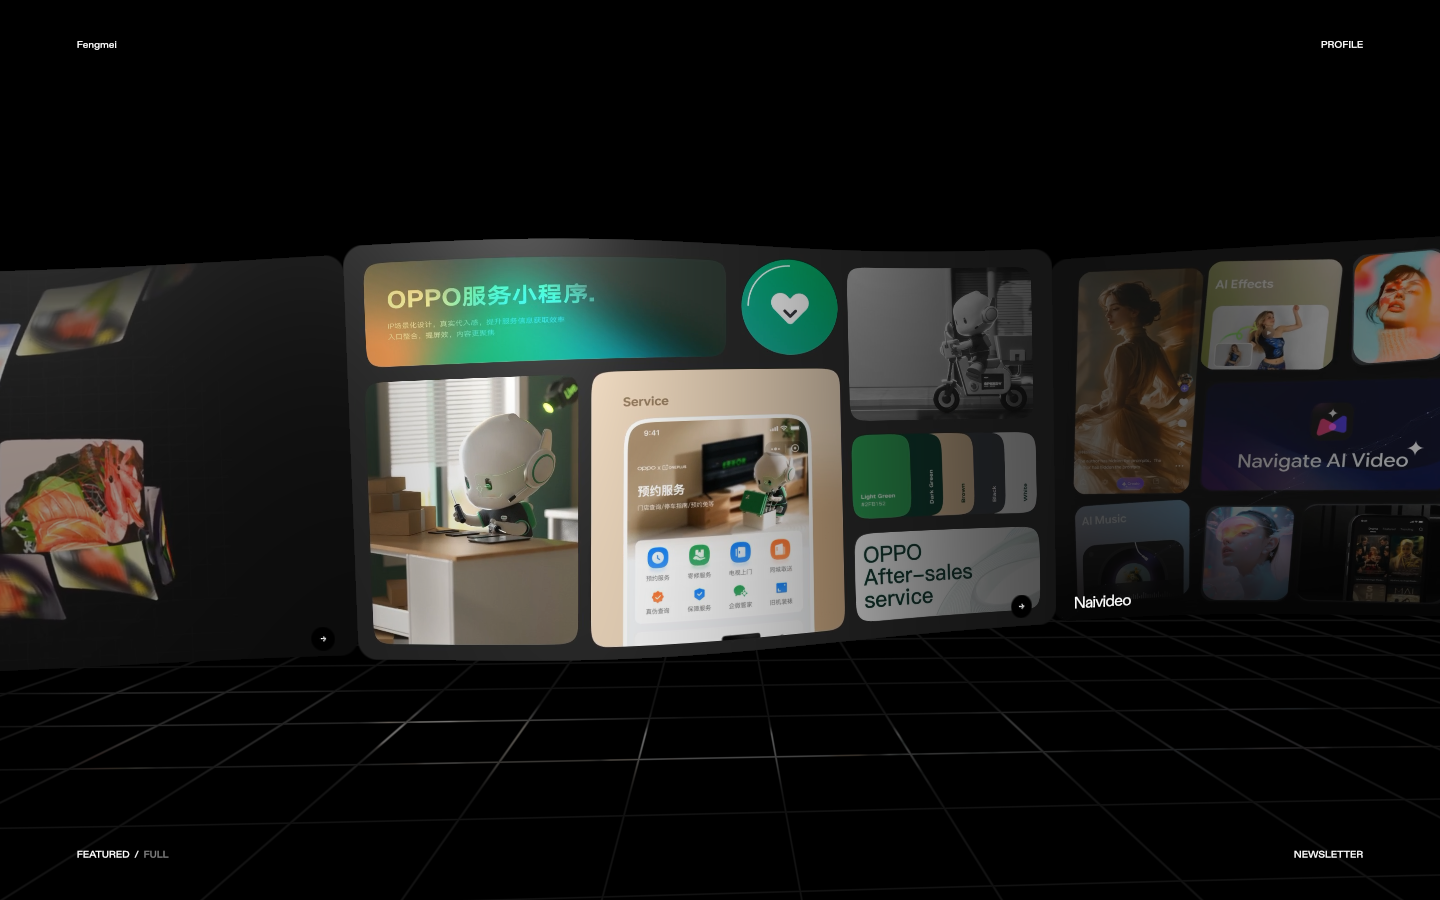
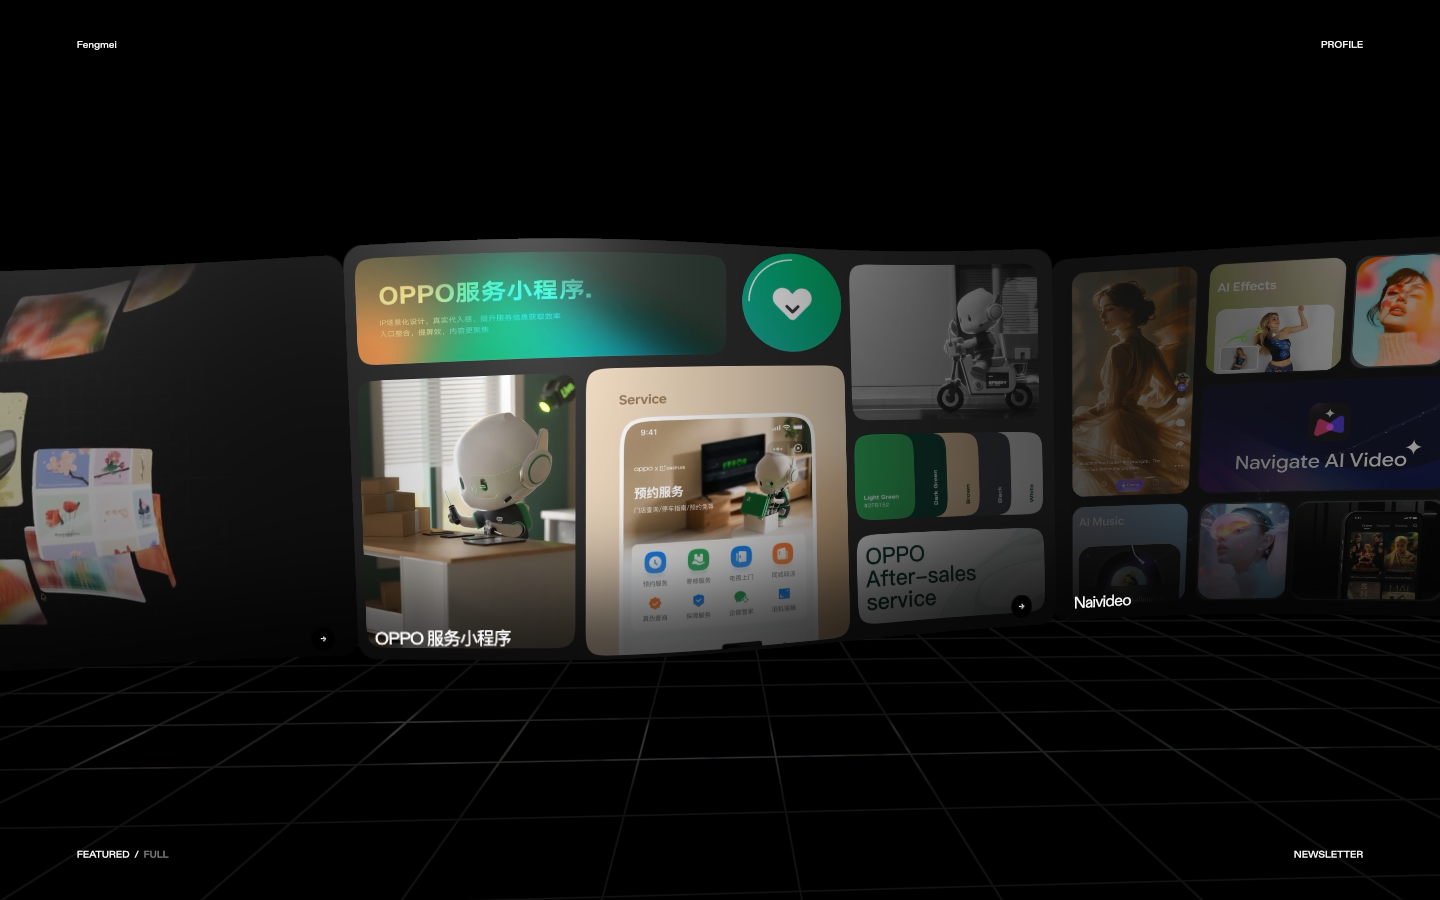
Add compound gallery focus lighting and tactile card motion

diff --git a/site/local-motion.js b/site/local-motion.js
@@ -7,23 +7,55 @@
     // every label inside the scene's pointer field and preview mask.
     useCanvasText: function (el) {
       return el.textContent.trim() === '华润ERP' ||
-        (el.matches('.content-center a') && /[\u3400-\u9fff]/.test(el.textContent));
+        ((el.matches('.content-center a') || el.hasAttribute('data-title')) && /[\u3400-\u9fff]/.test(el.textContent));
     },
     install: function (folio) {
       if (folio.galleryMotion) return;
       var media = matchMedia('(prefers-reduced-motion: reduce)');
       var pointer = { x: .5, y: .5, sx: .5, sy: .5, active: false };
+      var hovered = null, pressed = null;
+      var states = new WeakMap();
       var intro = -10000;
       var enabled = function () { return !media.matches && location.pathname === '/' && !folio.ctx.$resize?.small; };
       var clamp = function (n, a, b) { return Math.max(a, Math.min(b, n)); };
+      function stateFor(el) {
+        var state = states.get(el);
+        if (!state) { state = { hover: 0, press: 0, x: .5, y: .5 }; states.set(el, state); }
+        return state;
+      }
       folio.galleryMotion = { pointer: pointer, get enabled() { return enabled(); } };
       window.addEventListener('pointermove', function (e) {
         pointer.x = e.clientX / innerWidth;
         pointer.y = e.clientY / innerHeight;
         pointer.active = e.pointerType !== 'touch';
+        hovered = pointer.active ? e.target.closest?.('[data-gl="card"]') : null;
       }, { passive: true });
-      document.documentElement.addEventListener('pointerleave', function () { pointer.active = false; });
-      window.addEventListener('blur', function () { pointer.active = false; });
+      function release() { pressed = null; }
+      function leave() { pointer.active = false; hovered = null; release(); }
+      window.addEventListener('pointerdown', function (e) { if (e.button === 0) pressed = e.target.closest?.('[data-gl="card"]'); }, { passive: true });
+      window.addEventListener('pointerup', release, { passive: true });
+      window.addEventListener('pointercancel', leave, { passive: true });
+      document.documentElement.addEventListener('pointerleave', leave);
+      window.addEventListener('blur', leave);
+
+      // Light is evaluated on the existing card surface: no overlay can
+      // intercept clicks or cover the four corner navigation controls.
+      var plane = folio.plane;
+      folio.plane = function () {
+        var mesh = plane.apply(this, arguments), material = mesh.material;
+        var end = 'gl_FragColor = vec4(tex.rgb, alpha);';
+        if (material.fragmentShader.includes(end)) {
+          material.uniforms.u_galleryFocus = { value: 0 };
+          material.uniforms.u_galleryPoint = { value: material.uniforms.u_res.value.clone().set(.5, .5) };
+          material.fragmentShader = 'uniform float u_galleryFocus;\nuniform vec2 u_galleryPoint;\n' + material.fragmentShader.replace(end,
+            'vec2 galleryDelta = (vUv - u_galleryPoint) * vec2(u_res.x / max(u_res.y, 0.001), 1.0);\n' +
+            'float galleryLight = exp(-dot(galleryDelta, galleryDelta) * 5.0);\n' +
+            'float gallerySweep = pow(max(0.0, 1.0 - abs(vUv.x + vUv.y * 0.25 - u_galleryPoint.x - 0.12)), 16.0);\n' +
+            'tex.rgb += (vec3(0.07, 0.085, 0.11) * galleryLight + vec3(0.035) * gallerySweep) * u_galleryFocus * (1.0 - u_white);\n' + end);
+          material.needsUpdate = true;
+        }
+        return mesh;
+      };
 
       var showHome = folio.showHome;
       folio.showHome = function () {
@@ -35,6 +67,25 @@
         var k = 1 - Math.exp(-Math.min(dt || .016, .05) * 7);
         pointer.sx += ((pointer.active ? pointer.x : .5) - pointer.sx) * k;
         pointer.sy += ((pointer.active ? pointer.y : .5) - pointer.sy) * k;
+        var active = enabled() && this.hole.p < .02;
+        for (var card of this.reg.all()) {
+          var el = card.el, uniforms = card.mesh.material.uniforms;
+          if (!el?.isConnected || el.dataset.gl !== 'card' || !active) {
+            if (uniforms.u_galleryFocus) uniforms.u_galleryFocus.value = 0;
+            continue;
+          }
+          var state = stateFor(el), box = el._vrect || el.getBoundingClientRect();
+          state.hover += ((el === hovered ? 1 : 0) - state.hover) * k;
+          state.press += ((el === pressed ? 1 : 0) - state.press) * Math.min(1, k * 2);
+          var x = clamp((pointer.x * innerWidth - box.left) / Math.max(box.width, 1), 0, 1);
+          var y = clamp((pointer.y * innerHeight - box.top) / Math.max(box.height, 1), 0, 1);
+          state.x += (x - state.x) * k;
+          state.y += (y - state.y) * k;
+          if (uniforms.u_galleryFocus) {
+            uniforms.u_galleryFocus.value = state.hover;
+            uniforms.u_galleryPoint.value.set(state.x, 1 - state.y);
+          }
+        }
         return tick.apply(this, arguments);
       };
       var sheet = folio.sheet;
@@ -59,19 +110,27 @@
         var center = clamp((cx - .5) * 2, -1.5, 1.5);
         var focus = Math.exp(-Math.pow(center * 1.55, 2));
         var delay = Math.min(Math.max(index, 0), 5) * 70;
-        var p = clamp((performance.now() - intro - delay) / 1450, 0, 1);
-        var arrival = Math.pow(1 - p, 3);
+        var p = clamp((performance.now() - intro - delay) / 1650, 0, 1);
+        var arrival = Math.pow(1 - p, 4);
+        var state = stateFor(el);
+        var hover = this.hole.p < .02 ? state.hover : 0;
+        var press = this.hole.p < .02 ? state.press : 0;
         var h = pose.scale.y;
         var px = (pointer.sx - .5) * 2;
         var py = (pointer.sy - .5) * 2;
-        var dy = h * (-.17 * arrival + (px * center * .012 - py * .014) * focus);
-        var dz = h * (.045 * focus - .12 * arrival - Math.abs(this.vel || 0) * .025);
+        var dy = h * (-.20 * arrival + (px * center * .012 - py * .014) * focus + .018 * hover);
+        var dz = h * (.045 * focus - .15 * arrival - Math.abs(this.vel || 0) * .045 + .06 * hover - .035 * press);
         el._galleryOffset = { y: dy, z: dz };
         pose.pos.y += dy;
         pose.pos.z += dz;
+        var scale = 1 + .012 * hover - .01 * press;
+        pose.scale.x *= scale;
+        pose.scale.y *= scale;
         // The same pose is sampled by native click flights, preventing a jump.
         pose.quat = this.core.camera.quaternion.clone();
-        pose.quat.setFromAxisAngle({ x: 0, y: 1, z: 0 }, -.035 * center + .018 * px * focus + .10 * arrival * (index % 2 ? -1 : 1));
+        pose.quat.setFromAxisAngle({ x: 0, y: 1, z: 0 }, -.035 * center + .018 * px * focus + .12 * arrival * (index % 2 ? -1 : 1) + (state.x - .5) * .09 * hover);
+        var tiltX = this.core.camera.quaternion.clone().setFromAxisAngle({ x: 1, y: 0, z: 0 }, (state.y - .5) * .07 * hover);
+        pose.quat.multiply(tiltX);
         return pose;
       };
       var syncTitles = folio.syncTitles;

diff --git a/tools/verify_gallery_motion.js b/tools/verify_gallery_motion.js
@@ -18,7 +18,9 @@ const options = { executablePath: '/Applications/Google Chrome.app/Contents/MacO
     const read = () => page.evaluate(() => {
       const folio = document.querySelector('#__nuxt').__vue_app__.config.globalProperties.$nuxt.$folio;
       return { enabled: folio.galleryMotion.enabled, pointer: { ...folio.galleryMotion.pointer },
-        cards: folio.cards.filter(c => c.el.isConnected).map(c => ({ slug: c.slug, pos: c.mesh.position.toArray(), quat: c.mesh.quaternion.toArray() })) };
+        cards: folio.cards.filter(c => c.el.isConnected).map(c => ({ slug: c.slug, pos: c.mesh.position.toArray(), quat: c.mesh.quaternion.toArray(),
+          focus: c.mesh.material.uniforms.u_galleryFocus?.value, light: c.mesh.material.uniforms.u_galleryPoint?.value.toArray() })),
+        labels: folio.texts.filter(t => t.el.isConnected).map(t => t.el.textContent) };
     });
     await page.mouse.move(720, 450);
     await page.waitForTimeout(800);
@@ -29,17 +31,28 @@ const options = { executablePath: '/Applications/Google Chrome.app/Contents/MacO
     check('desktop gallery active with ten projects', before.enabled && before.cards.length === 10);
     check('pointer changes rendered card pose', after.cards.some((c, i) => Math.abs(c.pos[1] - before.cards[i].pos[1]) > .001));
     check('all card poses stay finite', after.cards.every(c => c.pos.concat(c.quat).every(Number.isFinite)));
+    check('all card surfaces support directional light', after.cards.every(c => Number.isFinite(c.focus) && c.light.length === 2));
+    check('Chinese project captions are rendered', after.labels.includes('OPPO自助服务') && after.labels.includes('华润ERP'));
     await page.screenshot({ path: 'screenshots/gallery_motion_home.png' });
     await page.mouse.wheel(0, 1800);
     await page.waitForTimeout(900);
     await page.screenshot({ path: 'screenshots/gallery_motion_scroll.png' });
-    await page.evaluate(() => {
+    const slug = await page.evaluate(() => {
       const card = [...document.querySelectorAll('[data-gl="card"]')].find(e => {
         const r = e._vrect || e.getBoundingClientRect(); return r.left > 0 && r.left < innerWidth * .7;
       });
       if (!card) throw new Error('No visible card');
-      (card.querySelector('a') || card).click();
+      return card.dataset.id;
     });
+    const target = page.locator('[data-gl="card"][data-id="' + slug + '"]');
+    await target.hover(); await page.waitForTimeout(1100);
+    const focused = (await read()).cards.find(c => c.slug === slug);
+    check('hover focuses and lights the active card', focused.focus > .8);
+    await page.screenshot({ path: 'screenshots/gallery_motion_focus.png' });
+    await page.mouse.down(); await page.waitForTimeout(220);
+    const pressed = (await read()).cards.find(c => c.slug === slug);
+    check('press gives the card a depth response', pressed.pos[2] < focused.pos[2] - .001);
+    await page.mouse.up();
     await page.waitForFunction(() => location.pathname.startsWith('/projects/'));
     await page.waitForTimeout(1800);
     check('card opens a single detail sheet', await page.locator('[data-gl="sheet"]').count() === 1);
